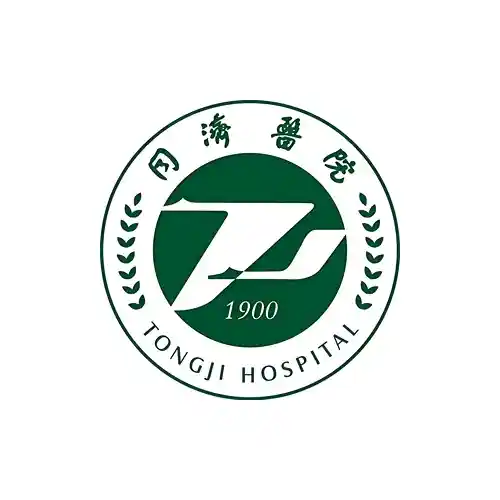
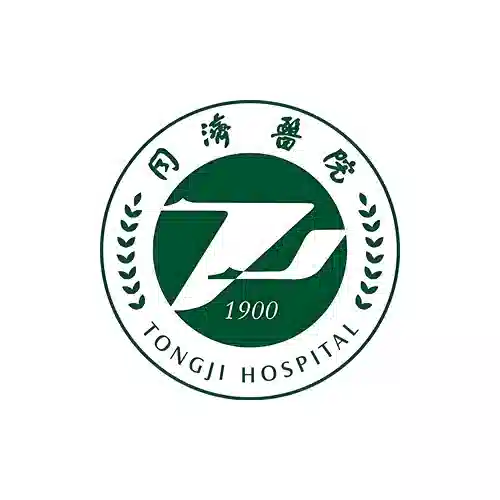
optimize

diff --git a/index.html b/index.html
@@ -42,6 +42,14 @@
 	.navbar-nav a::first-letter {
 	font-family: inherit !important;
 	}
+
+	.dlab-img-overlay4 img {
+		width: 100%;
+		height: auto;
+		display: block;
+		object-fit: contain; /* 或 cover，取决于效果 */
+	}
+
 	@import url('https://fonts.googleapis.com/css?family=Montserrat:100,100i,200,200i,300,300i,400,400i,500,500i,600,600i,700,700i,800,800i,900,900i|Open+Sans:300,300i,400,400i,600,600i,700,700i,800,800i|Playfair+Display:400,400i,700,700i,900,900i|Poppins:100,100i,200,200i,300,300i,400,400i,500,500i,600,600i,700,700i,800,800i,900,900i|Raleway:100,100i,200,200i,300,300i,400,400i,500,500i,600,600i,700,700i,800,800i,900,900i|Roboto+Condensed:300,300i,400,400i,700,700i|Roboto:100,100i,300,300i,400,400i,500,500i,700,700i,900,900i&display=swap');
 	</style>
 	
@@ -168,7 +176,7 @@
 							data-param10="" 
 							data-description="">
 							<!-- MAIN IMAGE -->
-							<img src="images/banner-1.jpg"  alt=""  data-bgposition="center center" data-bgfit="cover" data-bgparallax="3" class="rev-slidebg" 	data-no-retina>
+							<img src="images/banner-1.webp"  alt=""  data-bgposition="center center" data-bgfit="cover" data-bgparallax="3" class="rev-slidebg" 	data-no-retina>
 							<!-- LAYERS -->
 							
 							<!-- LAYER NR. 1 -->
@@ -323,8 +331,8 @@
 					<div class="row align-items-center">
 						<div class="col-lg-6 wow fadeInLeft" data-wow-duration="2s" data-wow-delay="0.3s">
 							<div class="exhibition-carousel owl-carousel owl-none m-b30">
-								<div class="item"><img src="images/company5.jpg" alt=""></div>
-								<div class="item"><img src="images/company2.jpg" alt=""></div>
+								<div class="item"><img src="images/company5.webp" alt=""></div>
+								<div class="item"><img src="images/company2.webp" alt=""></div>
 							</div>
 						</div>
 						<div class="col-lg-6 m-b30 wow fadeInRight" data-wow-duration="2s" data-wow-delay="0.3s">
@@ -442,7 +450,7 @@
 					</div>
                     <div class="col-lg-3 wow fadeIn" data-wow-duration="2s" data-wow-delay="0.3s">
 						<div class="dlab-img-effect zoom">
-							<img src="images/ct-products/ct-1.png" alt="" class="img-cover">
+							<img src="images/ct-products/ct-1.webp" alt="" class="img-cover">
 						</div>
 					</div>
                     <div class="col-lg-3 bg-primary text-white wow fadeIn" data-wow-duration="2s" data-wow-delay="0.3s">
@@ -456,13 +464,13 @@
 					</div>
 					<div class="col-lg-3 wow fadeIn" data-wow-duration="2s" data-wow-delay="0.9s">
 						<div class="dlab-img-effect zoom">
-							<img src="images/ct-products/ct-2.png" style="scale: 1;" alt="" class="img-cover">
+							<img src="images/ct-products/ct-2.webp" style="scale: 1;" alt="" class="img-cover">
 						</div>
 					</div>
 					
 					<div class="col-lg-3 wow fadeIn" data-wow-duration="2s" data-wow-delay="0.6s">
 						<div class="dlab-img-effect zoom">
-							<img src="images/ct-products/ct-3.png" alt="" class="img-cover" style="scale: 1.2;">
+							<img src="images/ct-products/ct-3.webp" alt="" class="img-cover" style="scale: 1.2;">
 						</div>
 					</div>
 					<div class="col-lg-3 bg-secondry text-white wow fadeIn" data-wow-duration="2s" data-wow-delay="0.6s">
@@ -478,7 +486,7 @@
 					</div>
                     <div class="col-lg-3 wow fadeIn" data-wow-duration="2s" data-wow-delay="0.6s">
 						<div class="dlab-img-effect zoom">
-							<img src="images/ct-products/ct-4.png" alt="" class="img-cover">
+							<img src="images/ct-products/ct-4.webp" alt="" class="img-cover">
 						</div>
 					</div>
 					<div class="col-lg-3 bg-primary text-white wow fadeIn" data-wow-duration="2s" data-wow-delay="0.6s">
@@ -506,7 +514,7 @@
 						<div class="item wow fadeInUp" data-wow-duration="2s" data-wow-delay="0.3s">
 							<div class="testimonial-14 quote-left">
 								<div class="ow-entry-media dlab-img-effect zoom-slow d-flex justify-content-center align-items-center"> 
-									<a href="scan-service.html#content-biomed"><img src="images/scan-service/service-1.png"  style="scale: 1.2; max-width: 200px; max-height: 200px;" alt=""></a> 
+									<a href="scan-service.html#content-biomed"><img src="images/scan-service/service-1.webp"  style="scale: 1.2; max-width: 200px; max-height: 200px;" alt=""></a> 
 								</div>
 								<div class="testimonial-text" style="font-size: large;">
 									<a href="scan-service.html#content-biomed" style="color: var(--color-secondry); font-size: large;">生物医学</a>
@@ -517,7 +525,7 @@
 							<div class="testimonial-14 quote-left">
 								
 								<div class="ow-entry-media dlab-img-effect zoom-slow d-flex justify-content-center align-items-center"> 
-									<a href="scan-service.html#content-clinical"><img src="images/scan-service/service-2-new.jpg"  style="scale: 1.2; max-width: 200px; max-height: 200px;" alt=""></a> 
+									<a href="scan-service.html#content-clinical"><img src="images/scan-service/service-2-new.webp"  style="scale: 1.2; max-width: 200px; max-height: 200px;" alt=""></a> 
 								</div>
 								<div class="testimonial-text" style="font-size: large;">
 									<a href="scan-service.html#content-clinical" style="color: var(--color-secondry); font-size: large;">临床医学</a>
@@ -528,7 +536,7 @@
 							<div class="testimonial-14 quote-left">
 								
 								<div class="ow-entry-media dlab-img-effect zoom-slow d-flex justify-content-center align-items-center"> 
-									<a href="scan-service.html#content-dental"><img src="images/scan-service/service-3.png"  style="scale: 1.2; max-width: 200px; max-height: 200px;" alt=""></a> 
+									<a href="scan-service.html#content-dental"><img src="images/scan-service/service-3.webp"  style="scale: 1.2; max-width: 200px; max-height: 200px;" alt=""></a> 
 								</div>
 								<div class="testimonial-text" style="font-size: large;">
 									<a href="scan-service.html#content-dental" style="color: var(--color-secondry); font-size: large;">牙科</a>
@@ -539,7 +547,7 @@
 							<div class="testimonial-14 quote-left">
 								
 								<div class="ow-entry-media dlab-img-effect zoom-slow d-flex justify-content-center align-items-center"> 
-									<a href="scan-service.html#content-ortho"><img src="images/scan-service/service-4.png"  style="scale: 1.2; max-width: 200px; max-height: 200px;" alt=""></a> 
+									<a href="scan-service.html#content-ortho"><img src="images/scan-service/service-4.webp"  style="scale: 1.2; max-width: 200px; max-height: 200px;" alt=""></a> 
 								</div>
 								<div class="testimonial-text" style="font-size: large;">
 									<a href="scan-service.html#content-ortho" style="color: var(--color-secondry); font-size: large;">骨科</a>
@@ -550,7 +558,7 @@
 							<div class="testimonial-14 quote-left">
 								
 								<div class="ow-entry-media dlab-img-effect zoom-slow d-flex justify-content-center align-items-center"> 
-									<a href="scan-service.html#content-material"><img src="images/scan-service/service-5-new.jpg"  style="scale: 1.2; max-width: 200px; max-height: 200px;" alt=""></a> 
+									<a href="scan-service.html#content-material"><img src="images/scan-service/service-5-new.webp"  style="scale: 1.2; max-width: 200px; max-height: 200px;" alt=""></a> 
 								</div>
 								<div class="testimonial-text" style="font-size: large;">
 									<a href="scan-service.html#content-material" style="color: var(--color-secondry); font-size: large;">材料学</a>
@@ -561,7 +569,7 @@
 							<div class="testimonial-14 quote-left">
 								
 								<div class="ow-entry-media dlab-img-effect zoom-slow d-flex justify-content-center align-items-center"> 
-									<a href="scan-service.html#content-fiber"><img src="images/scan-service/service-6-new.jpg"  style="scale: 1.2; max-width: 200px; max-height: 200px;" alt=""></a> 
+									<a href="scan-service.html#content-fiber"><img src="images/scan-service/service-6-new.webp"  style="scale: 1.2; max-width: 200px; max-height: 200px;" alt=""></a> 
 								</div>
 								<div class="testimonial-text" style="font-size: large;">
 									<a href="scan-service.html#content-fiber" style="color: var(--color-secondry); font-size: large;">纤维</a>
@@ -572,7 +580,7 @@
 							<div class="testimonial-14 quote-left">
 								
 								<div class="ow-entry-media dlab-img-effect zoom-slow d-flex justify-content-center align-items-center"> 
-									<a href="scan-service.html#content-bio"><img src="images/scan-service/service-7.png"  style="scale: 1.2; max-width: 200px; max-height: 200px;" alt=""></a> 
+									<a href="scan-service.html#content-bio"><img src="images/scan-service/service-7.webp"  style="scale: 1.2; max-width: 200px; max-height: 200px;" alt=""></a> 
 								</div>
 								<div class="testimonial-text" style="font-size: large;">
 									<a href="scan-service.html#content-bio" style="color: var(--color-secondry); font-size: large;">生物学</a>
@@ -583,7 +591,7 @@
 							<div class="testimonial-14 quote-left">
 								
 								<div class="ow-entry-media dlab-img-effect zoom-slow d-flex justify-content-center align-items-center"> 
-									<a href="scan-service.html#content-geology"><img src="images/scan-service/service-8-new.jpg"  style="scale: 1.2; max-width: 200px; max-height: 200px;" alt=""></a> 
+									<a href="scan-service.html#content-geology"><img src="images/scan-service/service-8-new.webp"  style="scale: 1.2; max-width: 200px; max-height: 200px;" alt=""></a> 
 								</div>
 								<div class="testimonial-text" style="font-size: large;">
 									<a href="scan-service.html#content-geology" style="color: var(--color-secondry); font-size: large;">地质学</a>
@@ -594,7 +602,7 @@
 							<div class="testimonial-14 quote-left">
 								
 								<div class="ow-entry-media dlab-img-effect zoom-slow d-flex justify-content-center align-items-center"> 
-									<a href="scan-service.html#content-food"><img src="images/scan-service/service-9.png"  style="scale: 1.2; max-width: 200px; max-height: 200px;" alt=""></a> 
+									<a href="scan-service.html#content-food"><img src="images/scan-service/service-9.webp"  style="scale: 1.2; max-width: 200px; max-height: 200px;" alt=""></a> 
 								</div>
 								<div class="testimonial-text" style="font-size: large;">
 									<a href="scan-service.html#content-food" style="color: var(--color-secondry); font-size: large;">食品</a>
@@ -605,7 +613,7 @@
 							<div class="testimonial-14 quote-left">
 								
 								<div class="ow-entry-media dlab-img-effect zoom-slow d-flex justify-content-center align-items-center"> 
-									<a href="scan-service.html#content-industry"><img src="images/scan-service/service-10.png"  style="scale: 1.2; max-width: 200px; max-height: 200px;" alt=""></a> 
+									<a href="scan-service.html#content-industry"><img src="images/scan-service/service-10.webp"  style="scale: 1.2; max-width: 200px; max-height: 200px;" alt=""></a> 
 								</div>
 								<div class="testimonial-text" style="font-size: large;">
 									<a href="scan-service.html#content-industry" style="color: var(--color-secondry); font-size: large;">工业</a>
@@ -630,7 +638,7 @@
 								<div class="dlab-box m-b15">
 									<div class="dlab-img-overlay4 dlab-img-effect zoom"> 
 										<a href="javascript:void(0);">
-											<img src="images/customers/customer-1.jpg" loading="lazy" alt="">
+											<img src="images/customers/customer-1.webp" loading="lazy" alt="">
 										</a>
 									</div>
 								</div>
@@ -639,7 +647,7 @@
 								<div class="dlab-box m-b15">
 									<div class="dlab-img-overlay4 dlab-img-effect zoom"> 
 										<a href="javascript:void(0);">
-											<img src="images/customers/customer-2.jpg" loading="lazy" alt="">
+											<img src="images/customers/customer-2.webp" loading="lazy" alt="">
 										</a>
 									</div>
 								</div>
@@ -648,7 +656,7 @@
 								<div class="dlab-box m-b15">
 									<div class="dlab-img-overlay4 dlab-img-effect zoom"> 
 										<a href="javascript:void(0);">
-											<img data-src="images/customers/customer-3.jpg" class="lazy" alt="">
+											<img data-src="images/customers/customer-3.webp" class="lazy" alt="">
 										</a>
 									</div>
 								</div>
@@ -657,7 +665,7 @@
 								<div class="dlab-box m-b15">
 									<div class="dlab-img-overlay4 dlab-img-effect zoom"> 
 										<a href="javascript:void(0);">
-											<img data-src="images/customers/customer-4.jpg" class="lazy" alt="">
+											<img data-src="images/customers/customer-4.webp" class="lazy" alt="">
 										</a>
 									</div>
 								</div>
@@ -666,7 +674,7 @@
 								<div class="dlab-box m-b15">
 									<div class="dlab-img-overlay4 dlab-img-effect zoom"> 
 										<a href="javascript:void(0);">
-											<img data-src="images/customers/customer-5.jpg" class="lazy" alt="">
+											<img data-src="images/customers/customer-5.webp" class="lazy" alt="">
 										</a>
 									</div>
 								</div>
@@ -675,7 +683,7 @@
 								<div class="dlab-box m-b15">
 									<div class="dlab-img-overlay4 dlab-img-effect zoom"> 
 										<a href="javascript:void(0);">
-											<img data-src="images/customers/customer-6.jpg" class="lazy" alt="">
+											<img data-src="images/customers/customer-6.webp" class="lazy" alt="">
 										</a>
 									</div>
 								</div>
@@ -684,7 +692,7 @@
 								<div class="dlab-box m-b15">
 									<div class="dlab-img-overlay4 dlab-img-effect zoom"> 
 										<a href="javascript:void(0);">
-											<img data-src="images/customers/customer-7.jpg" class="lazy" alt="">
+											<img data-src="images/customers/customer-7.webp" class="lazy" alt="">
 										</a>
 									</div>
 								</div>
@@ -693,7 +701,7 @@
 								<div class="dlab-box m-b15">
 									<div class="dlab-img-overlay4 dlab-img-effect zoom"> 
 										<a href="javascript:void(0);">
-											<img data-src="images/customers/customer-8.jpg" class="lazy" alt="">
+											<img data-src="images/customers/customer-8.webp" class="lazy" alt="">
 										</a>
 									</div>
 								</div>
@@ -702,7 +710,7 @@
 								<div class="dlab-box m-b15">
 									<div class="dlab-img-overlay4 dlab-img-effect zoom"> 
 										<a href="javascript:void(0);">
-											<img data-src="images/customers/customer-9.jpg" class="lazy" alt="">
+											<img data-src="images/customers/customer-9.webp" class="lazy" alt="">
 										</a>
 									</div>
 								</div>
@@ -711,7 +719,7 @@
 								<div class="dlab-box m-b15">
 									<div class="dlab-img-overlay4 dlab-img-effect zoom"> 
 										<a href="javascript:void(0);">
-											<img data-src="images/customers/customer-10.jpg" class="lazy" alt="">
+											<img data-src="images/customers/customer-10.webp" class="lazy" alt="">
 										</a>
 									</div>
 								</div>
@@ -720,7 +728,7 @@
 								<div class="dlab-box m-b15">
 									<div class="dlab-img-overlay4 dlab-img-effect zoom"> 
 										<a href="javascript:void(0);">
-											<img data-src="images/customers/customer-11.jpg" class="lazy" alt="">
+											<img data-src="images/customers/customer-11.webp" class="lazy" alt="">
 										</a>
 									</div>
 								</div>
@@ -729,7 +737,7 @@
 								<div class="dlab-box m-b15">
 									<div class="dlab-img-overlay4 dlab-img-effect zoom"> 
 										<a href="javascript:void(0);">
-											<img data-src="images/customers/customer-12.jpg" class="lazy" alt="">
+											<img data-src="images/customers/customer-12.webp" class="lazy" alt="">
 										</a>
 									</div>
 								</div>
@@ -738,7 +746,7 @@
 								<div class="dlab-box m-b15">
 									<div class="dlab-img-overlay4 dlab-img-effect zoom"> 
 										<a href="javascript:void(0);">
-											<img data-src="images/customers/customer-13.jpg" class="lazy" alt="">
+											<img data-src="images/customers/customer-13.webp" class="lazy" alt="">
 										</a>
 									</div>
 								</div>
@@ -747,7 +755,7 @@
 								<div class="dlab-box m-b15">
 									<div class="dlab-img-overlay4 dlab-img-effect zoom"> 
 										<a href="javascript:void(0);">
-											<img data-src="images/customers/customer-14.jpg" class="lazy" alt="">
+											<img data-src="images/customers/customer-14.webp" class="lazy" alt="">
 										</a>
 									</div>
 								</div>
@@ -756,7 +764,7 @@
 								<div class="dlab-box m-b15">
 									<div class="dlab-img-overlay4 dlab-img-effect zoom"> 
 										<a href="javascript:void(0);">
-											<img data-src="images/customers/customer-15.jpg" class="lazy" alt="">
+											<img data-src="images/customers/customer-15.webp" class="lazy" alt="">
 										</a>
 									</div>
 								</div>
@@ -765,7 +773,7 @@
 								<div class="dlab-box m-b15">
 									<div class="dlab-img-overlay4 dlab-img-effect zoom"> 
 										<a href="javascript:void(0);">
-											<img data-src="images/customers/customer-16.jpg" class="lazy" alt="">
+											<img data-src="images/customers/customer-16.webp" class="lazy" alt="">
 										</a>
 									</div>
 								</div>
@@ -774,7 +782,7 @@
 								<div class="dlab-box m-b15">
 									<div class="dlab-img-overlay4 dlab-img-effect zoom"> 
 										<a href="javascript:void(0);">
-											<img data-src="images/customers/customer-17.jpg" class="lazy" alt="">
+											<img data-src="images/customers/customer-17.webp" class="lazy" alt="">
 										</a>
 									</div>
 								</div>
@@ -783,7 +791,7 @@
 								<div class="dlab-box m-b15">
 									<div class="dlab-img-overlay4 dlab-img-effect zoom"> 
 										<a href="javascript:void(0);">
-											<img data-src="images/customers/customer-18.jpg" class="lazy" alt="">
+											<img data-src="images/customers/customer-18.webp" class="lazy" alt="">
 										</a>
 									</div>
 								</div>
